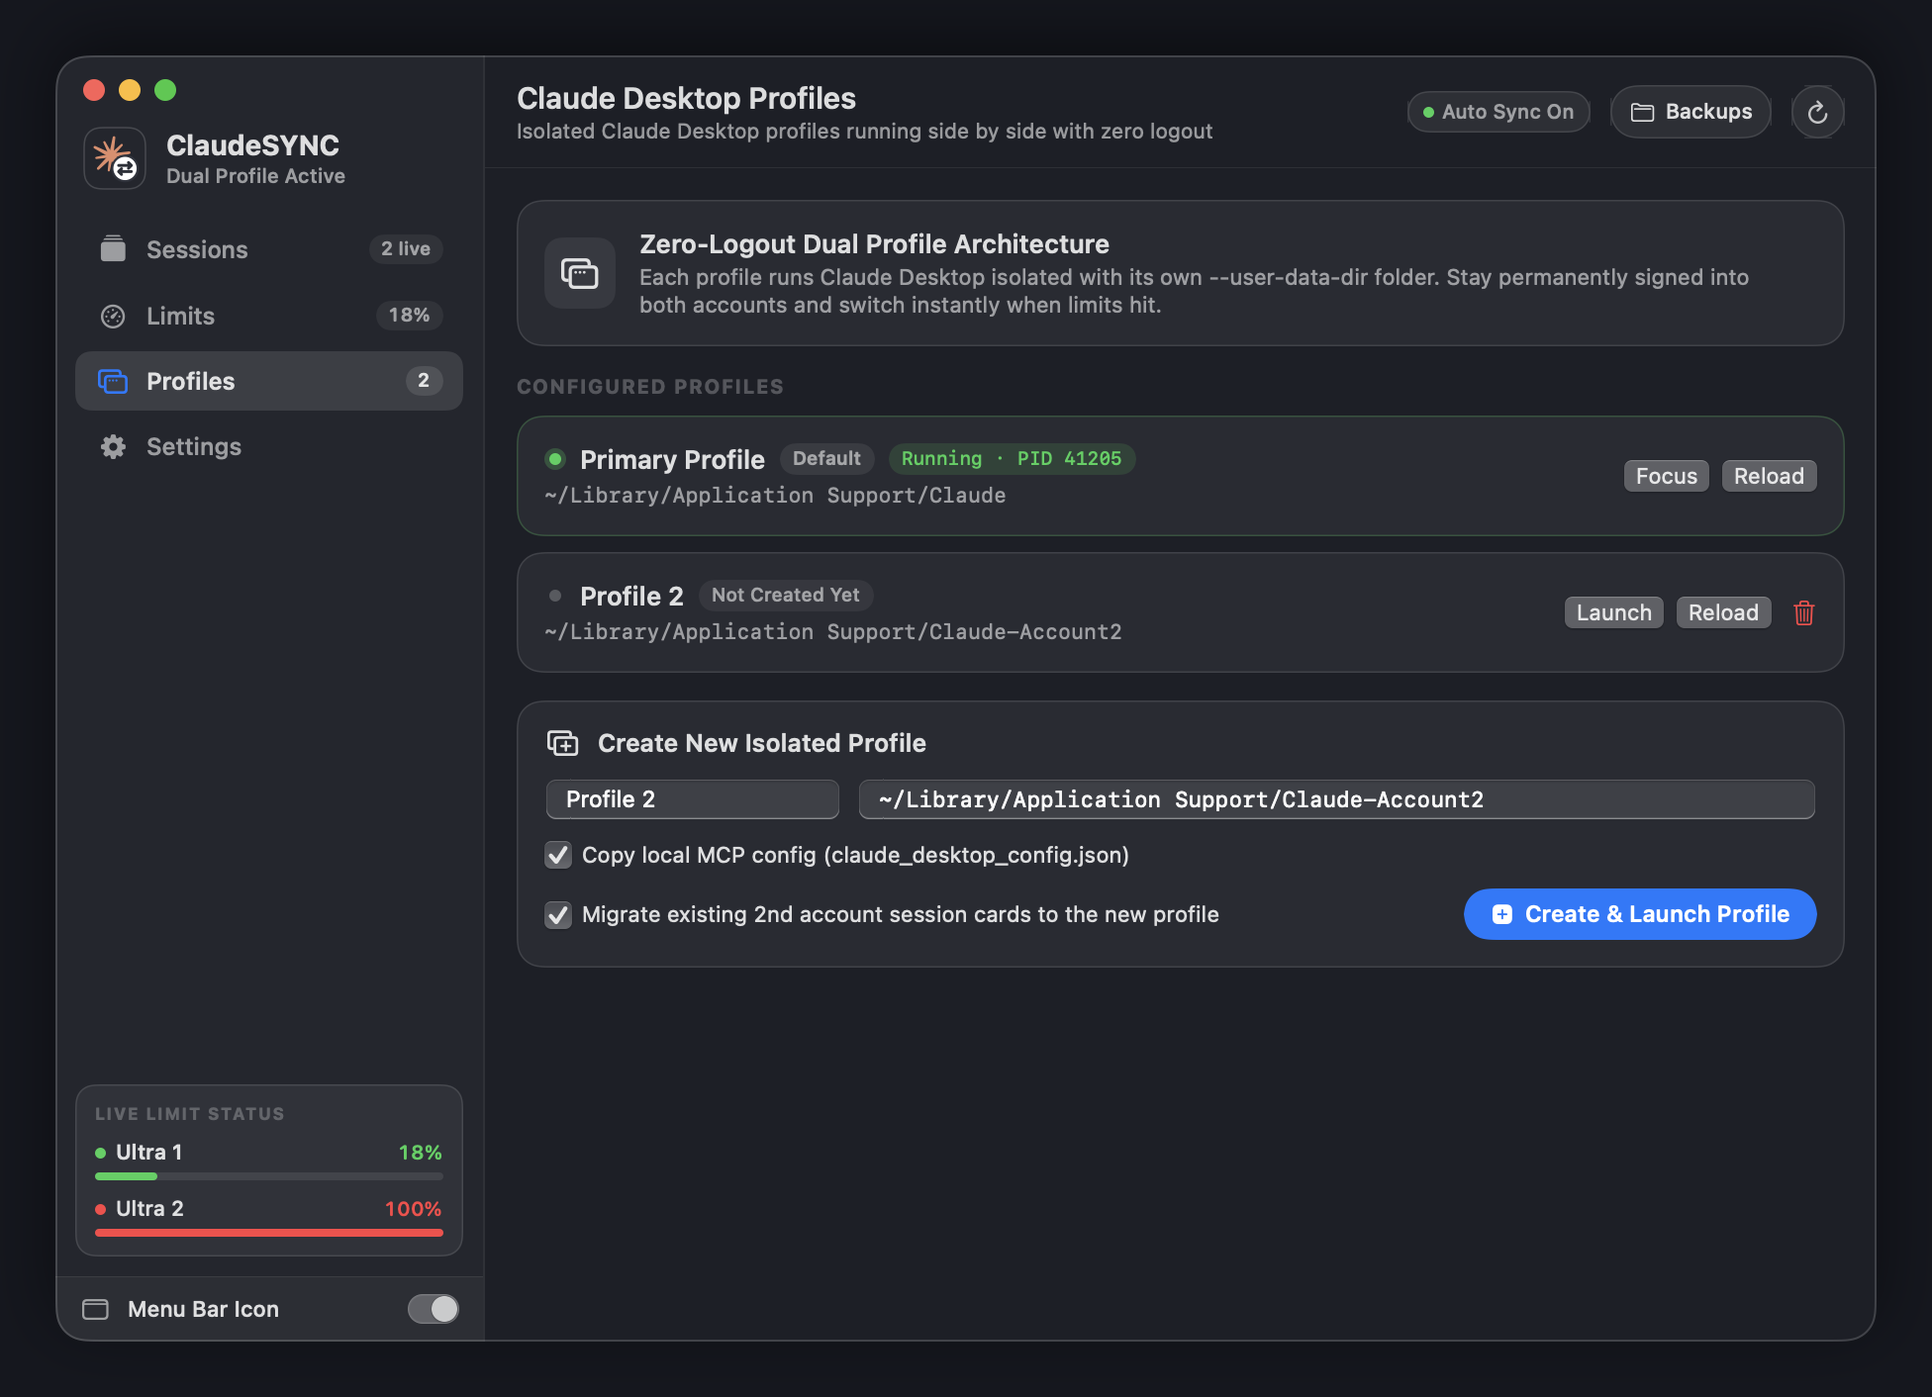
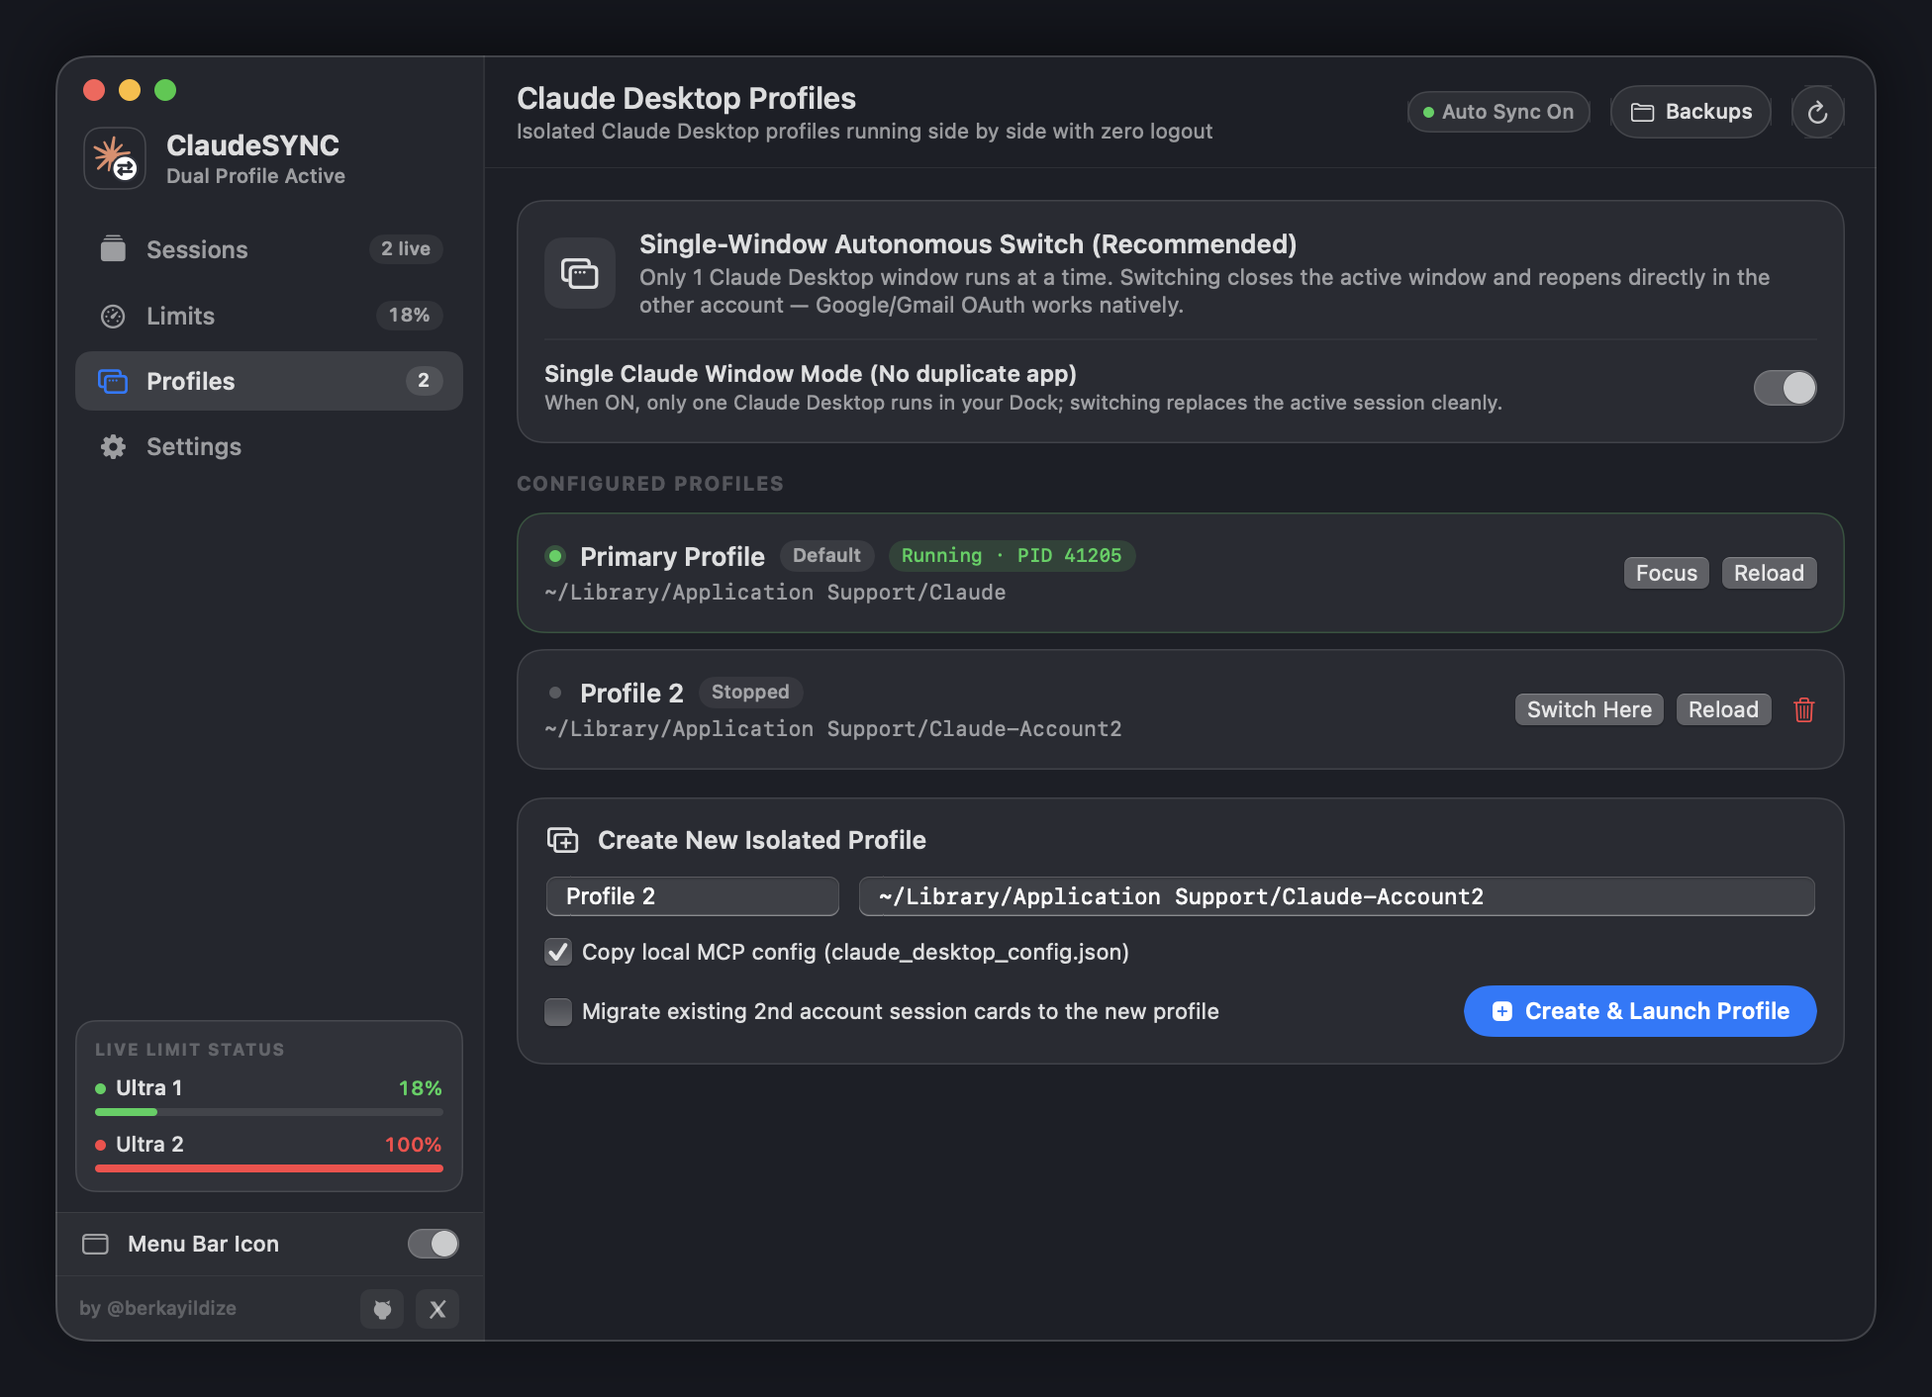
Release v0.0.6: add @berkayildize creator attribution and GitHub & X links

diff --git a/Sources/ClaudeSYNC/SettingsView.swift b/Sources/ClaudeSYNC/SettingsView.swift
@@ -461,40 +461,88 @@ struct SettingsView: View {
     // MARK: - 6. About & Open Source Privacy
 
     private var appVersionString: String {
-        (Bundle.main.infoDictionary?["CFBundleShortVersionString"] as? String) ?? "0.0.3"
+        (Bundle.main.infoDictionary?["CFBundleShortVersionString"] as? String) ?? "0.0.6"
     }
 
     private var aboutSection: some View {
-        VStack(alignment: .leading, spacing: 6) {
-            HStack(spacing: 8) {
-                ClaudeSyncHeaderIcon(size: 24)
-                VStack(alignment: .leading, spacing: 1) {
-                    Text(l10n.t("ClaudeSYNC · Açık Kaynak (MIT)", "ClaudeSYNC · Open Source (MIT)"))
-                        .font(.system(size: 11.5, weight: .semibold))
+        VStack(alignment: .leading, spacing: 9) {
+            HStack(spacing: 9) {
+                ClaudeSyncHeaderIcon(size: 28)
+                VStack(alignment: .leading, spacing: 1.5) {
+                    HStack(spacing: 6) {
+                        Text(l10n.t("ClaudeSYNC · Açık Kaynak (MIT)", "ClaudeSYNC · Open Source (MIT)"))
+                            .font(.system(size: 12, weight: .semibold))
+                        Text("v\(appVersionString)")
+                            .font(.system(size: 9.5, weight: .semibold, design: .monospaced))
+                            .foregroundStyle(Color(red: 0.85, green: 0.47, blue: 0.34))
+                            .padding(.horizontal, 6)
+                            .padding(.vertical, 1.5)
+                            .background(Capsule().fill(Color(red: 0.85, green: 0.47, blue: 0.34).opacity(0.14)))
+                    }
                     Text(
                         l10n.t(
-                            "%100 Yerel · Sıfır Telemetri · Çerez/Token Okumaz",
-                            "100% Local · Zero Telemetry · Never Reads Cookies or Tokens"
+                            "Geliştirici: \(CreatorLinks.handle) · %100 Yerel · Sıfır Telemetri",
+                            "Created by \(CreatorLinks.handle) · 100% Local · Zero Telemetry"
                         )
                     )
-                    .font(.system(size: 10))
+                    .font(.system(size: 10.5))
                     .foregroundStyle(.secondary)
                 }
                 Spacer()
-                Button {
-                    if let url = URL(string: "https://github.com/berkayildize/ClaudeSYNC/releases") {
-                        NSWorkspace.shared.open(url)
-                    }
-                } label: {
-                    Text("v\(appVersionString) · \(l10n.t("Sürüm Notları", "Release Notes"))")
-                        .font(.system(size: 10, weight: .medium, design: .monospaced))
-                        .foregroundStyle(.secondary)
-                        .padding(.horizontal, 8)
-                        .padding(.vertical, 3)
-                        .background(Capsule().fill(Color.primary.opacity(0.07)))
-                }
-                .buttonStyle(.plain)
             }
+
+            // Creator & Open-Source Links Row
+            HStack(spacing: 7) {
+                Button {
+                    NSWorkspace.shared.open(CreatorLinks.githubURL)
+                } label: {
+                    HStack(spacing: 5) {
+                        GitHubBrandMark(size: 11.5)
+                        Text("GitHub · \(CreatorLinks.handle)")
+                            .font(.system(size: 10.5, weight: .medium))
+                    }
+                    .padding(.horizontal, 10)
+                    .padding(.vertical, 5)
+                    .liquidGlassCapsule(tint: nil, interactive: false)
+                }
+                .buttonStyle(TactileScaleButtonStyle())
+                .help("https://github.com/berkayildize/")
+
+                Button {
+                    NSWorkspace.shared.open(CreatorLinks.xURL)
+                } label: {
+                    HStack(spacing: 5) {
+                        XBrandMark(size: 10)
+                        Text("X · \(CreatorLinks.handle)")
+                            .font(.system(size: 10.5, weight: .medium))
+                    }
+                    .padding(.horizontal, 10)
+                    .padding(.vertical, 5)
+                    .liquidGlassCapsule(tint: nil, interactive: false)
+                }
+                .buttonStyle(TactileScaleButtonStyle())
+                .help("https://x.com/berkayildize/")
+
+                Spacer()
+
+                Button {
+                    NSWorkspace.shared.open(CreatorLinks.releasesURL)
+                } label: {
+                    HStack(spacing: 4) {
+                        Image(systemName: "tag")
+                            .font(.system(size: 9.5, weight: .semibold))
+                        Text(l10n.t("Sürüm Notları", "Release Notes"))
+                            .font(.system(size: 10.5, weight: .medium))
+                    }
+                    .foregroundStyle(.secondary)
+                    .padding(.horizontal, 9)
+                    .padding(.vertical, 5)
+                    .liquidGlassCapsule(tint: nil, interactive: false)
+                }
+                .buttonStyle(TactileScaleButtonStyle())
+            }
+
+            Divider().opacity(0.35)
 
             Text(
                 l10n.t(
@@ -506,7 +554,7 @@ struct SettingsView: View {
             .foregroundStyle(.secondary)
             .fixedSize(horizontal: false, vertical: true)
         }
-        .padding(12)
+        .padding(13)
         .frame(maxWidth: .infinity, alignment: .leading)
         .liquidGlassCard(cornerRadius: 12)
     }

diff --git a/Sources/ClaudeSYNC/MainWindowView.swift b/Sources/ClaudeSYNC/MainWindowView.swift
@@ -96,26 +96,66 @@ struct MainWindowView: View {
             }
 
             // Quick Menu Bar Toggle right in Sidebar Footer
-            HStack(spacing: 8) {
-                Image(systemName: "menubar.rectangle")
-                    .font(.system(size: 11.5, weight: .medium))
-                    .foregroundStyle(.secondary)
-                Text(l10n.t("Üst Bar Simgesi", "Menu Bar Icon"))
-                    .font(.system(size: 11, weight: .medium))
-                Spacer()
-                Toggle(
-                    "",
-                    isOn: Binding(
-                        get: { viewModel.showMenuBarExtra },
-                        set: { viewModel.setShowMenuBarExtra($0) }
+            VStack(spacing: 0) {
+                HStack(spacing: 8) {
+                    Image(systemName: "menubar.rectangle")
+                        .font(.system(size: 11.5, weight: .medium))
+                        .foregroundStyle(.secondary)
+                    Text(l10n.t("Üst Bar Simgesi", "Menu Bar Icon"))
+                        .font(.system(size: 11, weight: .medium))
+                    Spacer()
+                    Toggle(
+                        "",
+                        isOn: Binding(
+                            get: { viewModel.showMenuBarExtra },
+                            set: { viewModel.setShowMenuBarExtra($0) }
+                        )
                     )
-                )
-                .labelsHidden()
-                .toggleStyle(.switch)
-                .controlSize(.mini)
+                    .labelsHidden()
+                    .toggleStyle(.switch)
+                    .controlSize(.mini)
+                }
+                .padding(.horizontal, 12)
+                .padding(.vertical, 8.5)
+
+                Rectangle()
+                    .fill(isDark ? Color.white.opacity(0.06) : Color.black.opacity(0.06))
+                    .frame(height: 0.5)
+
+                // Subtle Creator Attribution & Social Links
+                HStack(spacing: 6) {
+                    Text(l10n.t("by \(CreatorLinks.handle)", "by \(CreatorLinks.handle)"))
+                        .font(.system(size: 9.5, weight: .medium))
+                        .foregroundStyle(.tertiary)
+                        .lineLimit(1)
+
+                    Spacer()
+
+                    Button {
+                        NSWorkspace.shared.open(CreatorLinks.githubURL)
+                    } label: {
+                        GitHubBrandMark(size: 11.5)
+                            .foregroundStyle(.secondary)
+                            .frame(width: 22, height: 20)
+                            .background(RoundedRectangle(cornerRadius: 5, style: .continuous).fill(Color.primary.opacity(0.06)))
+                    }
+                    .buttonStyle(TactileScaleButtonStyle())
+                    .help("GitHub — https://github.com/berkayildize/")
+
+                    Button {
+                        NSWorkspace.shared.open(CreatorLinks.xURL)
+                    } label: {
+                        XBrandMark(size: 9.5)
+                            .foregroundStyle(.secondary)
+                            .frame(width: 22, height: 20)
+                            .background(RoundedRectangle(cornerRadius: 5, style: .continuous).fill(Color.primary.opacity(0.06)))
+                    }
+                    .buttonStyle(TactileScaleButtonStyle())
+                    .help("X (Twitter) — https://x.com/berkayildize/")
+                }
+                .padding(.horizontal, 12)
+                .padding(.vertical, 6.5)
             }
-            .padding(.horizontal, 12)
-            .padding(.vertical, 9)
             .background(isDark ? Color.white.opacity(0.035) : Color.black.opacity(0.03))
             .overlay(alignment: .top) {
                 Rectangle()

diff --git a/Sources/ClaudeSYNC/ClaudeSyncLogo.swift b/Sources/ClaudeSYNC/ClaudeSyncLogo.swift
@@ -185,3 +185,68 @@ struct ClaudeSyncHeaderIcon: View {
         .frame(width: size, height: size)
     }
 }
+
+// MARK: - Creator Identity & Crisp Vector Social Marks
+
+enum CreatorLinks {
+    static let handle = "@berkayildize"
+    static let githubURL = URL(string: "https://github.com/berkayildize/")!
+    static let xURL = URL(string: "https://x.com/berkayildize/")!
+    static let repoURL = URL(string: "https://github.com/berkayildize/ClaudeSYNC")!
+    static let releasesURL = URL(string: "https://github.com/berkayildize/ClaudeSYNC/releases")!
+}
+
+/// Crisp vector X (Twitter) logo mark scaled cleanly at any point size.
+struct XBrandMark: View {
+    var size: CGFloat = 11
+
+    var body: some View {
+        Canvas { ctx, sz in
+            let w = sz.width
+            let h = sz.height
+            var path = Path()
+            // Classic geometric X emblem (left diagonal ribbon + right thin crossing stroke)
+            path.move(to: CGPoint(x: w * 0.08, y: h * 0.08))
+            path.addLine(to: CGPoint(x: w * 0.34, y: h * 0.08))
+            path.addLine(to: CGPoint(x: w * 0.92, y: h * 0.92))
+            path.addLine(to: CGPoint(x: w * 0.66, y: h * 0.92))
+            path.closeSubpath()
+            ctx.fill(path, with: .foreground)
+
+            var slash = Path()
+            slash.move(to: CGPoint(x: w * 0.84, y: h * 0.08))
+            slash.addLine(to: CGPoint(x: w * 0.14, y: h * 0.92))
+            ctx.stroke(slash, with: .foreground, style: StrokeStyle(lineWidth: max(1.1, w * 0.13), lineCap: .square))
+        }
+        .frame(width: size, height: size)
+    }
+}
+
+/// Crisp vector GitHub mark (clean circular badge with minimalist silhouette).
+struct GitHubBrandMark: View {
+    var size: CGFloat = 12
+
+    var body: some View {
+        Canvas { ctx, sz in
+            let w = sz.width
+            let h = sz.height
+            // Clean scalable geometric GitHub octocat head/ears mark
+            var head = Path()
+            head.addEllipse(in: CGRect(x: w * 0.12, y: h * 0.18, width: w * 0.76, height: h * 0.66))
+            // Left ear
+            head.move(to: CGPoint(x: w * 0.22, y: h * 0.34))
+            head.addLine(to: CGPoint(x: w * 0.18, y: h * 0.10))
+            head.addLine(to: CGPoint(x: w * 0.39, y: h * 0.22))
+            head.closeSubpath()
+            // Right ear
+            head.move(to: CGPoint(x: w * 0.78, y: h * 0.34))
+            head.addLine(to: CGPoint(x: w * 0.82, y: h * 0.10))
+            head.addLine(to: CGPoint(x: w * 0.61, y: h * 0.22))
+            head.closeSubpath()
+            // Neck base
+            head.addRoundedRect(in: CGRect(x: w * 0.34, y: h * 0.72, width: w * 0.32, height: h * 0.22), cornerSize: CGSize(width: w * 0.08, height: h * 0.08))
+            ctx.fill(head, with: .foreground)
+        }
+        .frame(width: size, height: size)
+    }
+}

diff --git a/Sources/ClaudeSYNC/OnboardingView.swift b/Sources/ClaudeSYNC/OnboardingView.swift
@@ -251,6 +251,44 @@ struct OnboardingView: View {
                     )
                 )
             }
+
+            // Subtle Creator Credit Strip
+            HStack(spacing: 10) {
+                Text(l10n.t("Geliştirici: \(CreatorLinks.handle)", "Built by \(CreatorLinks.handle)"))
+                    .font(.system(size: 10.5, weight: .medium))
+                    .foregroundStyle(.tertiary)
+
+                Button {
+                    NSWorkspace.shared.open(CreatorLinks.githubURL)
+                } label: {
+                    HStack(spacing: 4) {
+                        GitHubBrandMark(size: 10.5)
+                        Text("GitHub")
+                            .font(.system(size: 10, weight: .medium))
+                    }
+                    .foregroundStyle(.secondary)
+                    .padding(.horizontal, 8)
+                    .padding(.vertical, 3.5)
+                    .liquidGlassCapsule(tint: nil, interactive: false)
+                }
+                .buttonStyle(TactileScaleButtonStyle())
+
+                Button {
+                    NSWorkspace.shared.open(CreatorLinks.xURL)
+                } label: {
+                    HStack(spacing: 4) {
+                        XBrandMark(size: 9)
+                        Text("Twitter")
+                            .font(.system(size: 10, weight: .medium))
+                    }
+                    .foregroundStyle(.secondary)
+                    .padding(.horizontal, 8)
+                    .padding(.vertical, 3.5)
+                    .liquidGlassCapsule(tint: nil, interactive: false)
+                }
+                .buttonStyle(TactileScaleButtonStyle())
+            }
+            .padding(.top, 2)
         }
     }
 

diff --git a/Sources/ClaudeSYNC/ClaudeSYNCApp.swift b/Sources/ClaudeSYNC/ClaudeSYNCApp.swift
@@ -248,6 +248,16 @@ final class AppDelegate: NSObject, NSApplicationDelegate, NSWindowDelegate {
         wizardItem.target = self
         appMenu.addItem(wizardItem)
         appMenu.addItem(.separator())
+        let ghItem = NSMenuItem(title: "GitHub (\(CreatorLinks.handle))", action: #selector(handleOpenGitHub), keyEquivalent: "")
+        ghItem.target = self
+        appMenu.addItem(ghItem)
+        let xItem = NSMenuItem(title: "X / Twitter (\(CreatorLinks.handle))", action: #selector(handleOpenX), keyEquivalent: "")
+        xItem.target = self
+        appMenu.addItem(xItem)
+        let relItem = NSMenuItem(title: t.t("Sürüm Notları...", "Release Notes..."), action: #selector(handleOpenReleases), keyEquivalent: "")
+        relItem.target = self
+        appMenu.addItem(relItem)
+        appMenu.addItem(.separator())
         let hideItem = NSMenuItem(title: t.t("ClaudeSYNC'i Gizle", "Hide ClaudeSYNC"), action: #selector(NSApplication.hide(_:)), keyEquivalent: "h")
         appMenu.addItem(hideItem)
         appMenu.addItem(.separator())
@@ -303,6 +313,18 @@ final class AppDelegate: NSObject, NSApplicationDelegate, NSWindowDelegate {
     @objc private func handleOpenOnboarding() {
         viewModel.reopenOnboarding()
         showMainWindow()
+    }
+
+    @objc private func handleOpenGitHub() {
+        NSWorkspace.shared.open(CreatorLinks.githubURL)
+    }
+
+    @objc private func handleOpenX() {
+        NSWorkspace.shared.open(CreatorLinks.xURL)
+    }
+
+    @objc private func handleOpenReleases() {
+        NSWorkspace.shared.open(CreatorLinks.releasesURL)
     }
 
     @objc private func handleOpenMainWindow() {

diff --git a/README.md b/README.md
@@ -98,7 +98,7 @@ ClaudeSYNC bridges those local session cards safely so switching profiles preser
 
 ### Option 1: Download Prebuilt DMG (Recommended)
 
-1. Download **`ClaudeSYNC-v0.0.5-macOS.dmg`** from [**GitHub Releases**](https://github.com/berkayildize/ClaudeSYNC/releases/latest) (see [CHANGELOG.md](CHANGELOG.md) for version history).
+1. Download **`ClaudeSYNC-v0.0.6-macOS.dmg`** from [**GitHub Releases**](https://github.com/berkayildize/ClaudeSYNC/releases/latest) (see [CHANGELOG.md](CHANGELOG.md) for version history).
 2. Drag **`ClaudeSYNC.app`** into your **`Applications`** folder.
 3. Because this is an unsigned open-source release, right-click `ClaudeSYNC.app` → **Open** on first launch, or clear quarantine:
    ```bash
@@ -147,6 +147,15 @@ ClaudeSYNC/
     ├── generate-icon.swift # Vector CoreGraphics AppIcon.icns generator
     └── generate-launch-kit.swift # Bilingual (EN + TR) promo visuals & 1080p60 launch video generator
 ```
+
+---
+
+## Creator
+
+Built by **[@berkayildize](https://github.com/berkayildize/)**
+
+- GitHub: https://github.com/berkayildize/
+- X (Twitter): https://x.com/berkayildize/
 
 ---
 

diff --git a/CHANGELOG.md b/CHANGELOG.md
@@ -5,6 +5,15 @@ Each release is packaged as a standalone macOS `.dmg` under [GitHub Releases](ht
 
 ---
 
+## [v0.0.6] — 2026-11-20
+
+### Creator Attribution & Direct Social Links
+
+#### Added
+- **Creator Credit & Direct Links (`@berkayildize`):** Added crisp vector GitHub (`https://github.com/berkayildize/`) and X / Twitter (`https://x.com/berkayildize/`) links in the Main Window sidebar footer, Settings → About card, First-Launch Setup Wizard welcome screen, native macOS `ClaudeSYNC` app menu, and `Info.plist` About panel metadata.
+
+---
+
 ## [v0.0.5] — 2026-11-20
 
 ### Custom Retina macOS DMG Installer UI
